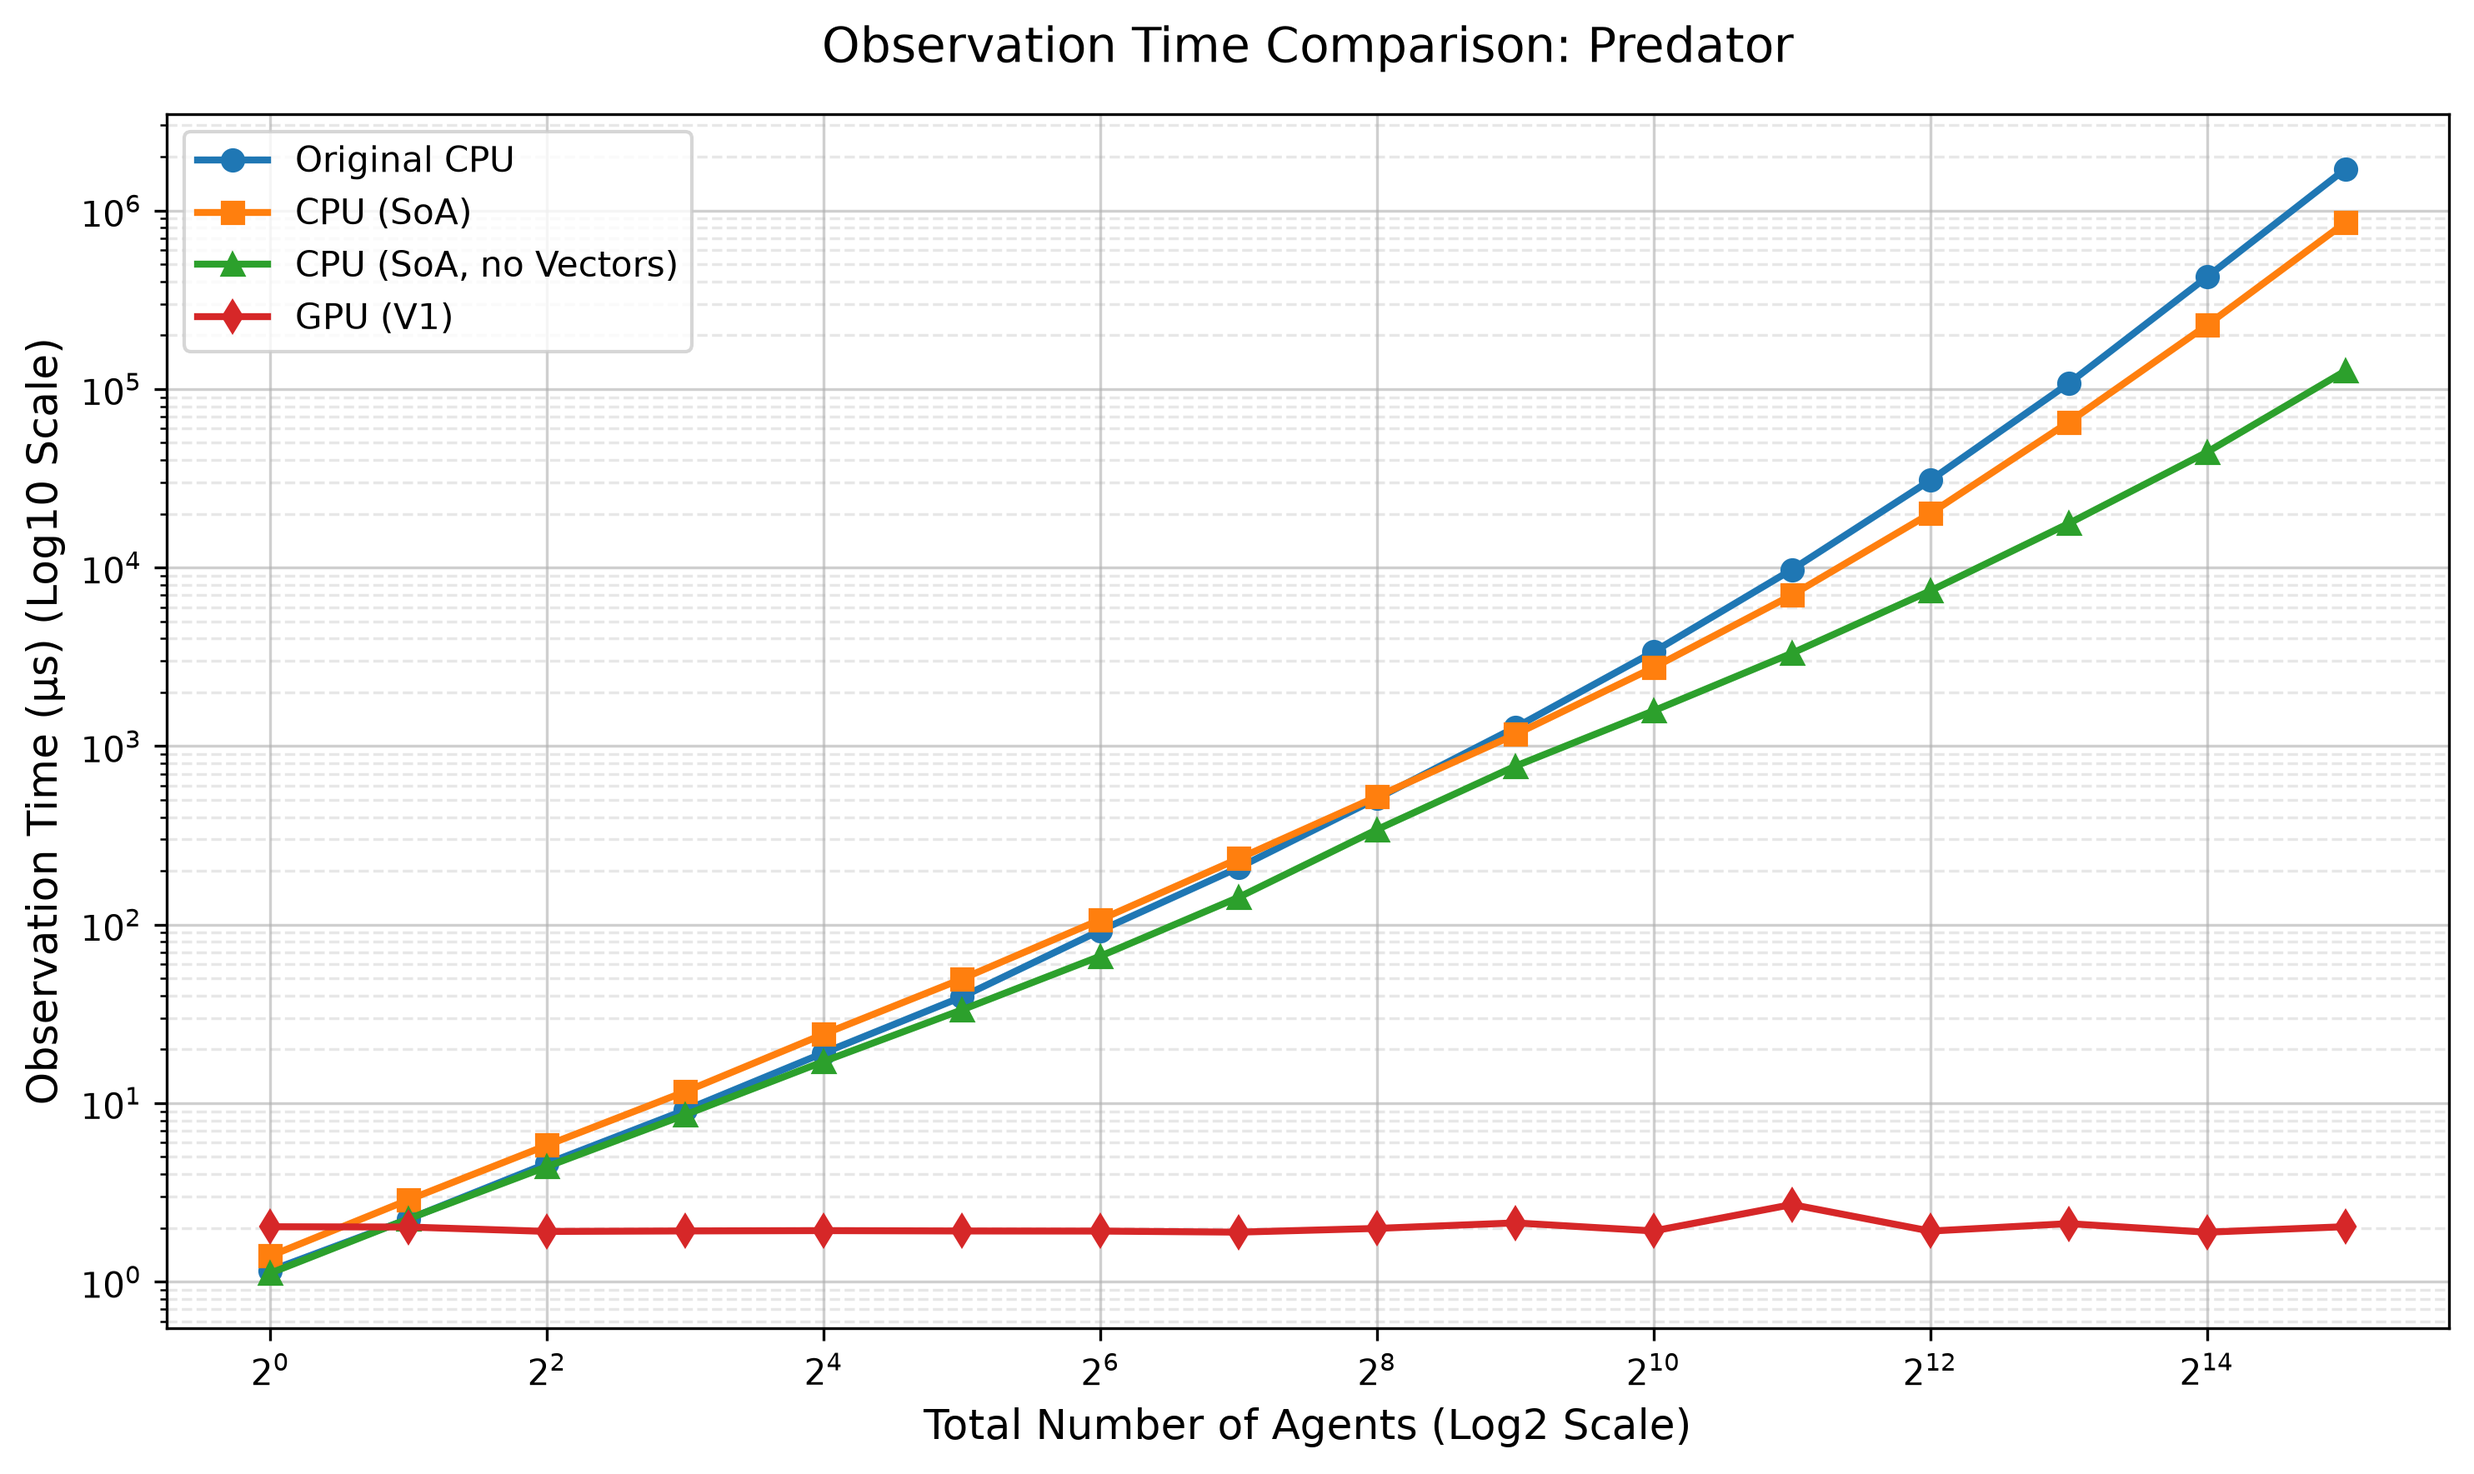
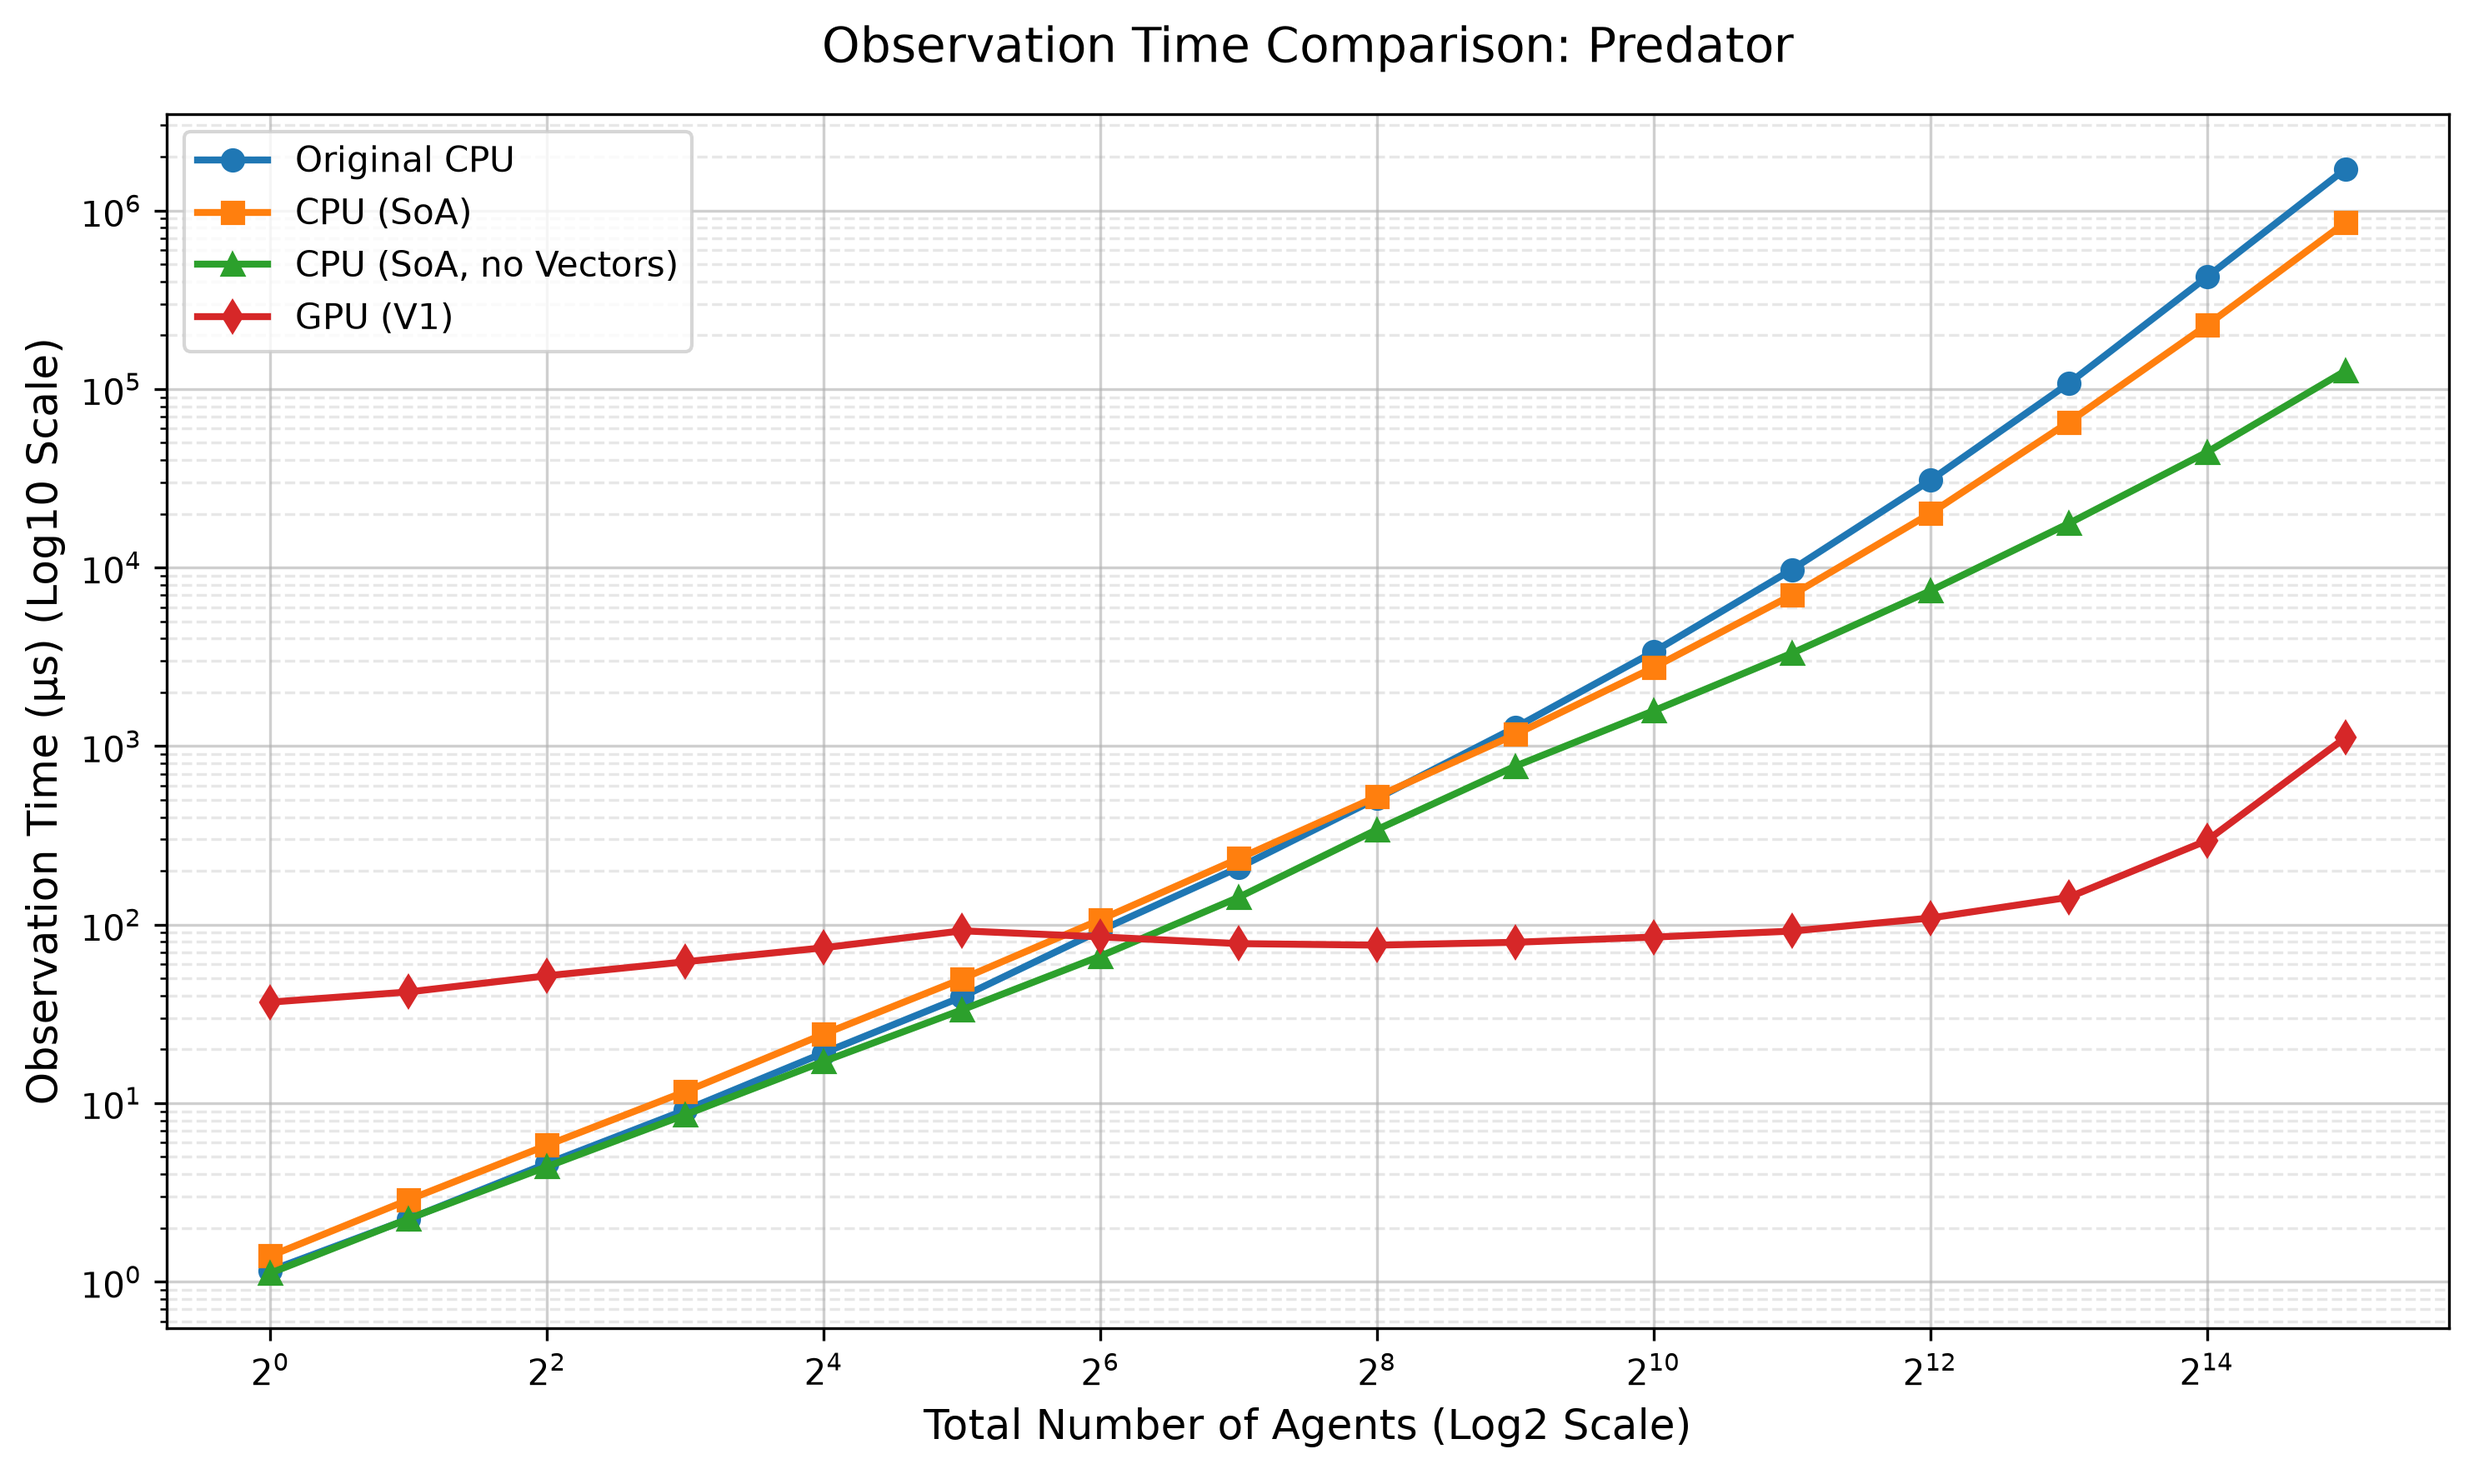
Finalized GPU V1 by implementing correct profiling

diff --git a/profiling/plot_graphs.py b/profiling/plot_graphs.py
@@ -14,10 +14,10 @@ COLUMNS = {"Buckets","Observation","Think","Move","Cleanup","Total"}
 # The format is: {"Label for Legend": "filename.csv"}
 # This example compares all versions for the "Prey Only" scenario
 FILES_TO_PLOT = {
-    "Original CPU": "data/profiling_results_cpu_prede_predatori.csv",
-    "CPU (SoA)": "data/profiling_results_gpuready_cpu_prede_predatori.csv",
-    "CPU (SoA, no Vectors)": "data/profiling_results_cpu_soa_prede_predatori.csv",
-    "GPU (V1)": "data/profiling_results_gpuV1_prede_predatori.csv"
+    "Original CPU": "data/profiling_results_cpu_predatori.csv",
+    "CPU (SoA)": "data/profiling_results_gpuready_cpu_predatori.csv",
+    "CPU (SoA, no Vectors)": "data/profiling_results_cpu_soa_predatori.csv",
+    "GPU (V1)": "data/profiling_results_gpuV1_predatori.csv"
 }
 
 # ==========================================
@@ -81,7 +81,7 @@ def plot_column_across_files(files_dict, target_column, title, save_filename):
 if __name__ == "__main__":
     for target_column in COLUMNS:
         # Set the title of the graph
-        GRAPH_TITLE = f"{target_column} Time Comparison: Prey and Predator"
-        SAVE_FILENAME = f"graphs/{target_column}/prey_and_predator.png"
+        GRAPH_TITLE = f"{target_column} Time Comparison: Predator"
+        SAVE_FILENAME = f"graphs/{target_column}/predator.png"
         
         plot_column_across_files(FILES_TO_PLOT, target_column, GRAPH_TITLE, SAVE_FILENAME)

diff --git a/include/World.h b/include/World.h
@@ -11,9 +11,13 @@ using namespace std;
 
 class World{
     private:  
+    int world_id;
     // Texture
     sf::RenderTexture gridTexture; 
     bool gridTextureValid = false; 
+    
+    // CUDA events for profiling
+    cudaEvent_t start_total, end_buckets, end_obs, end_think, end_move, end_cleanup;
     
     public:
     SwarmData swarm;

diff --git a/include/structures/Swarm.h b/include/structures/Swarm.h
@@ -171,7 +171,7 @@ struct SwarmData {
 
     // Sensory Data
     struct SensoryData {
-        uint64_t* lockedEnemyIndex
+        uint64_t* lockedEnemyIndex;
         int *closestEnemyIndex;
         float *closestEnemyX, *closestEnemyY, *closestEnemyDist;
         float *enemyClosingSpeed, *enemyTangentialSpeed;
